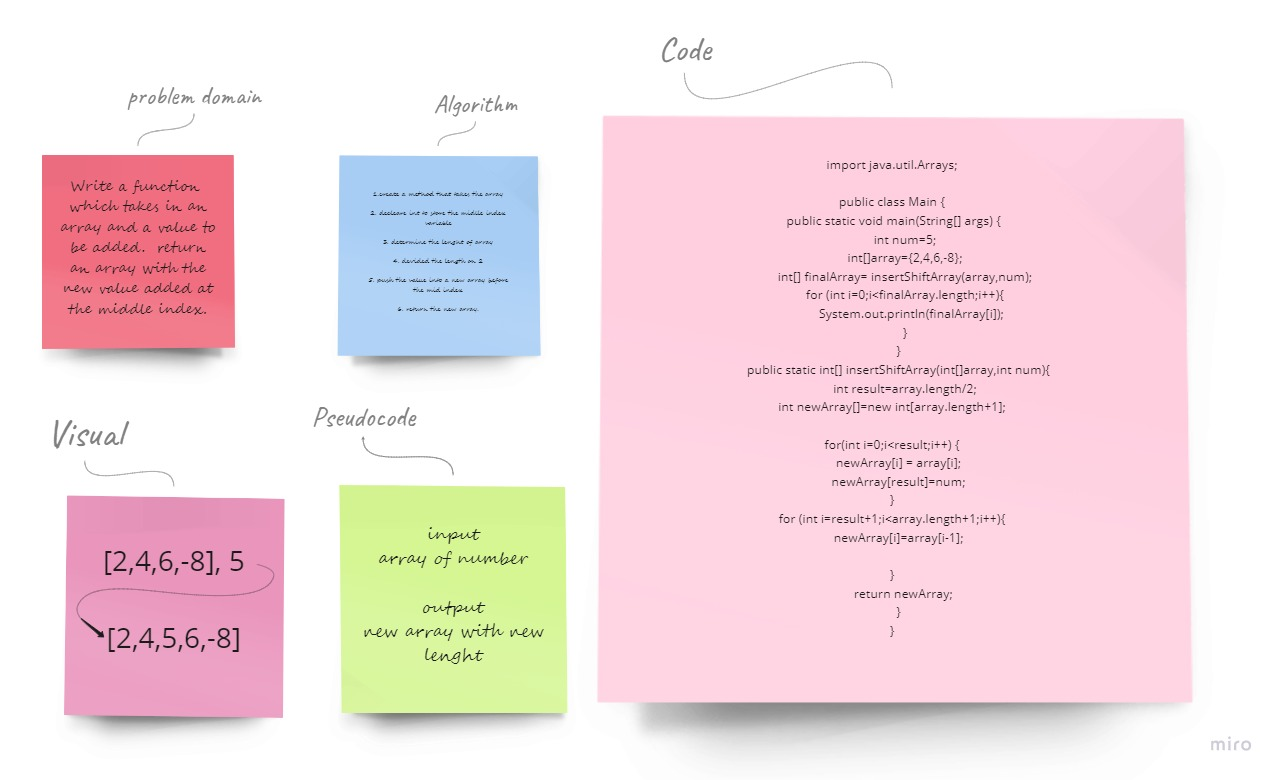
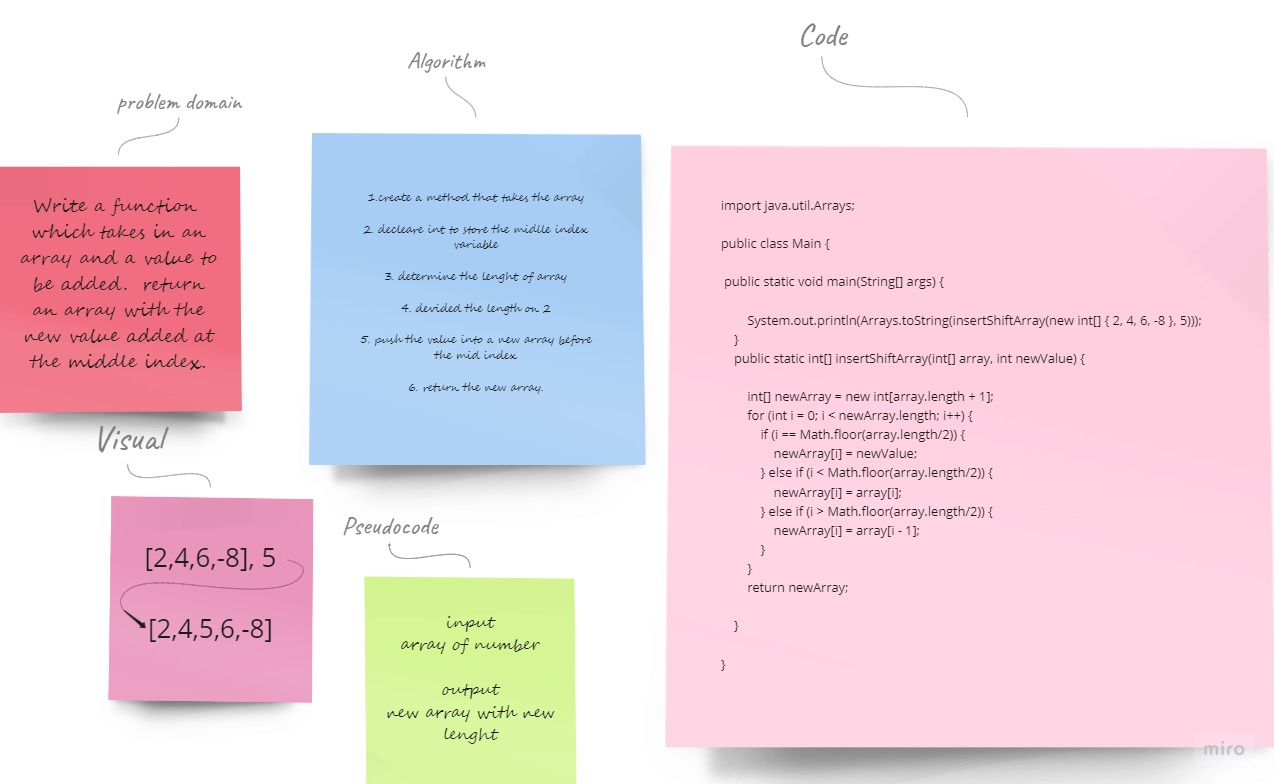
challenge 2

diff --git a/Array-Insert-Shift/README.md b/Array-Insert-Shift/README.md
@@ -10,28 +10,27 @@
 import java.util.Arrays;
 
 public class Main {
+
     public static void main(String[] args) {
-        int num=5;
-        int[]array={2,4,6,-8};
-        int[] finalArray= insertShiftArray(array,num);
-        for (int i=0;i<finalArray.length;i++){
-            System.out.println(finalArray[i]);
+
+        System.out.println(Arrays.toString(insertShiftArray(new int[] { 2, 4, 6, -8 }, 5)));
+    }
+    public static int[] insertShiftArray(int[] array, int newValue) {
+
+        int[] newArray = new int[array.length + 1];
+        for (int i = 0; i < newArray.length; i++) {
+            if (i == Math.floor(array.length/2)) {
+                newArray[i] = newValue;
+            } else if (i < Math.floor(array.length/2)) {
+                newArray[i] = array[i];
+            } else if (i > Math.floor(array.length/2)) {
+                newArray[i] = array[i - 1];
+            }
         }
-    }
-    public static int[] insertShiftArray(int[]array,int num){
-        int result=array.length/2;
-int newArray[]=new int[array.length+1];
+        return newArray;
 
-for(int i=0;i<result;i++) {
-    newArray[i] = array[i];
-    newArray[result]=num;
-}
-for (int i=result+1;i<array.length+1;i++){
-    newArray[i]=array[i-1];
-
-}
-       return newArray;
     }
+    
 }
 
 ```

diff --git a/README.md b/README.md
@@ -4,4 +4,7 @@
 
 * [Array Reverse](https://github.com/Heba1998/Data-structures-and-algorithms-401/tree/main/array-reverse)
 
+
+
+
 * [Array Insert Shift](https://github.com/Heba1998/Data-structures-and-algorithms-401/tree/main/Array-Insert-Shift)
